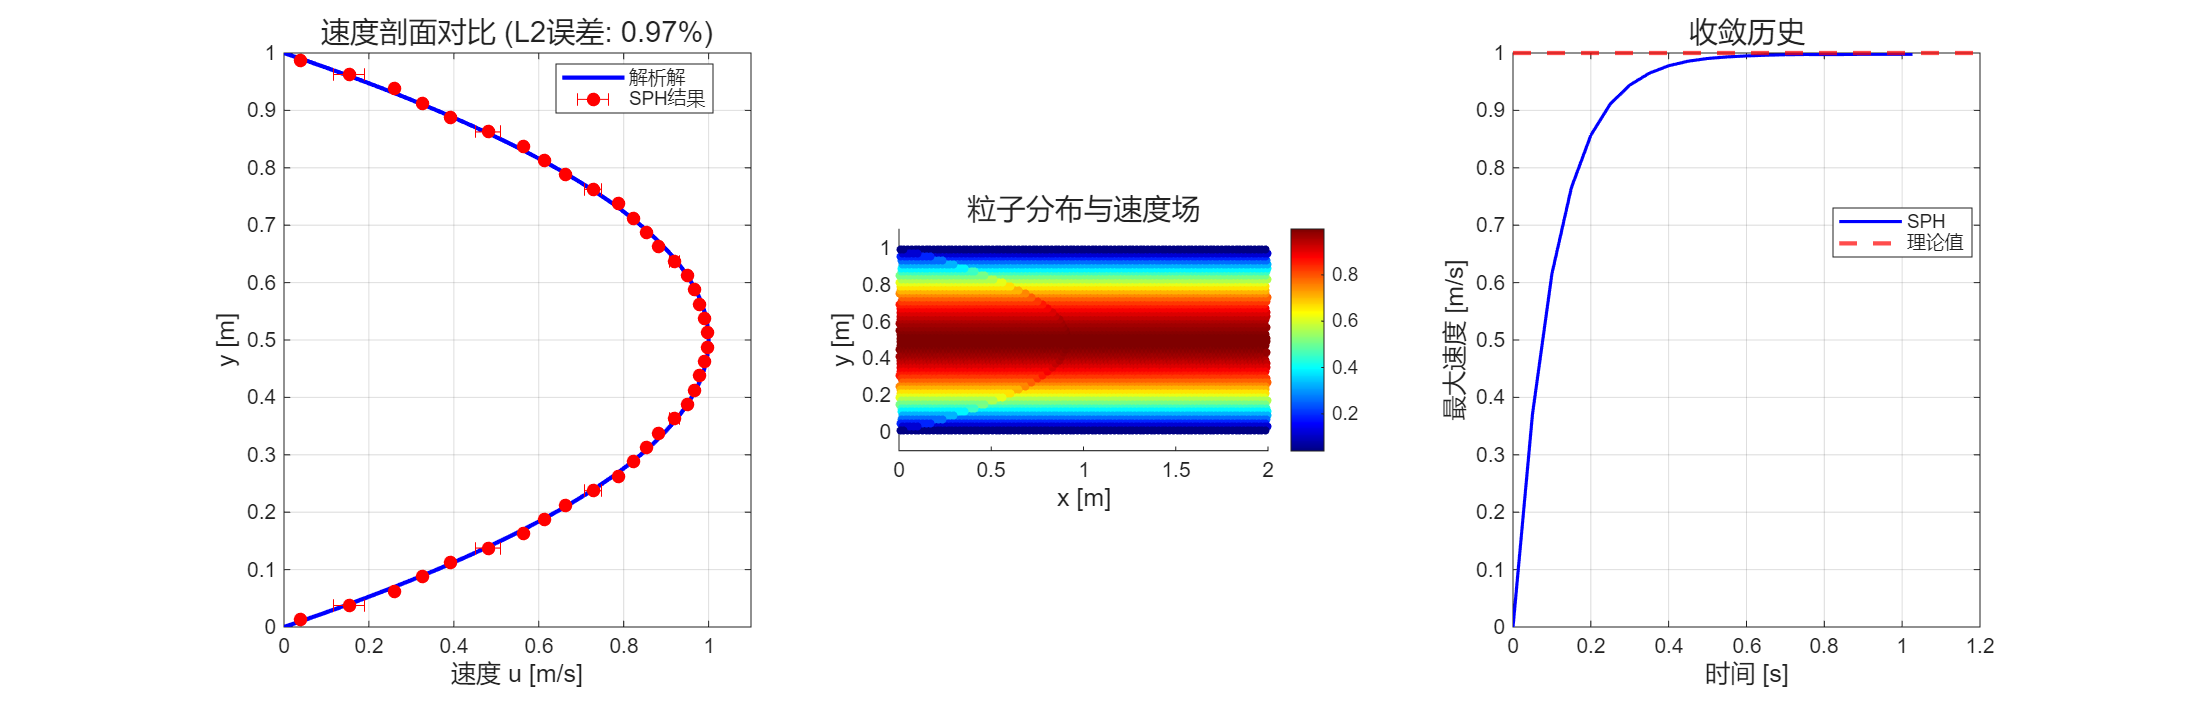
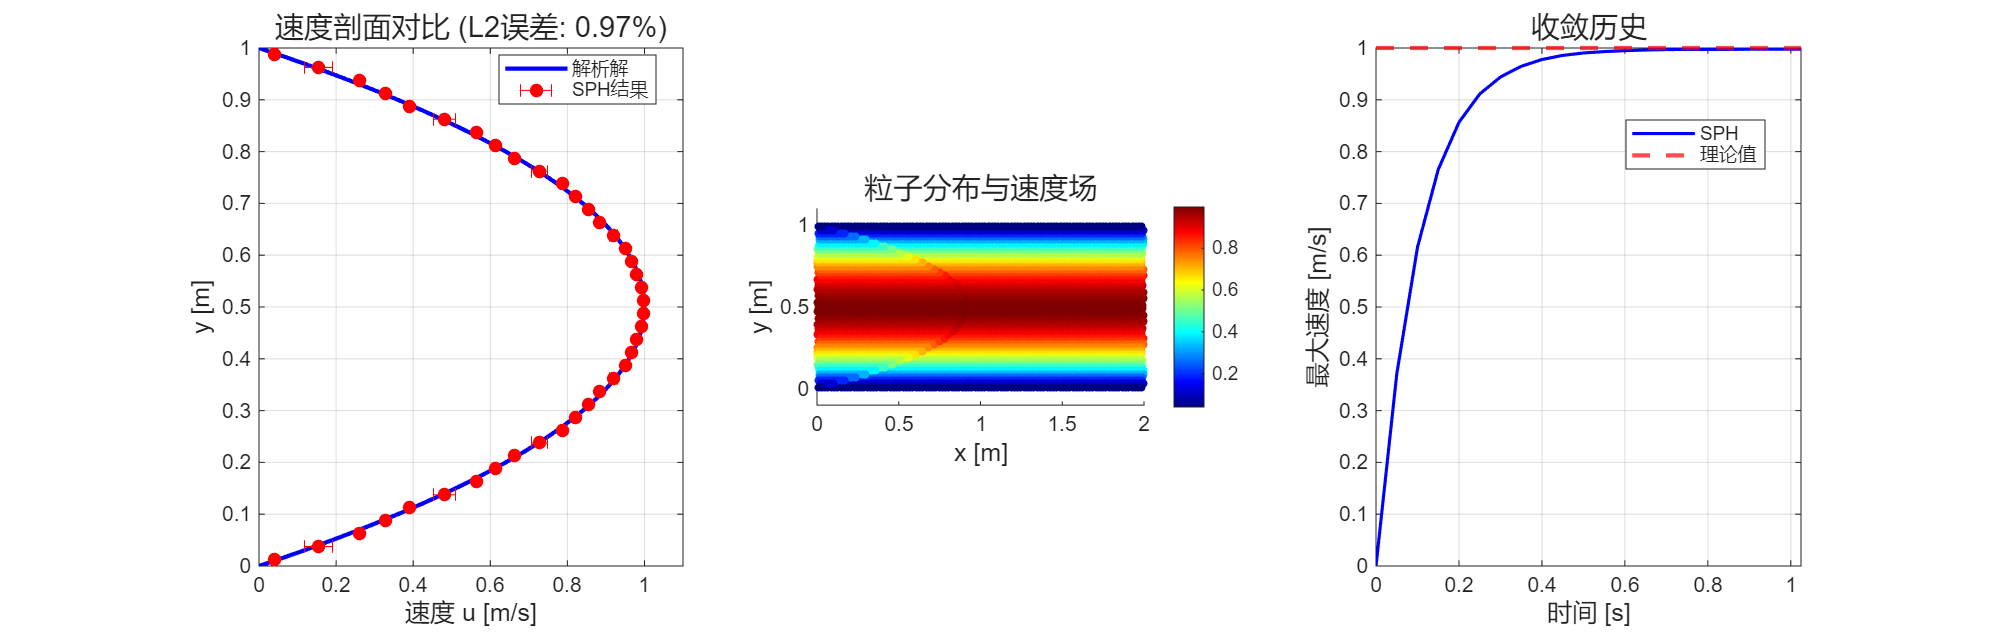
feat: 新增 Neumann 壁面边界条件支持（三种模式可切换）
在 SPH 平板泊肃叶流动模拟中增加 Neumann 壁面边界条件，
通过 wall_bc_type 变量（或环境变量 SPH_WALL_BC）切换三种模式：

1. dirichlet — Morris (1997) 镜像速度法（原有默认行为，完全保留）
2. neumann_laminar — 层流 Neumann BC，近壁单点差分估计 du/dy，
   通过 Taylor 展开设定虚粒子速度 u_ghost = -d·(du/dy)
3. neumann_wallmodel — 壁面模型 Neumann BC，对数律不动点迭代求
   摩擦速度 u_τ，适用于高 Re 湍流场景（低 Re 自动退化为粘性子层）

主要变更：
- 新增 update_wall_velocity_unified() 统一壁面速度更新函数
- 新增 wall_model_dudy() 对数律壁面模型函数
- 预计算虚粒子到壁面距离 d_bottom/d_top 及近壁流体层信息
- 替换两处 update_wall_velocity_fast 调用为统一接口
- 更新 .gitignore 忽略 Claude 本地配置和临时报告文件

验证结果（三种模式 vs 解析解 L2 误差均 < 1.3%）：
- dirichlet:         ~1.21%
- neumann_laminar:   ~1.22%
- neumann_wallmodel: ~1.22%

diff --git a/SPH_Poiseuille.m b/SPH_Poiseuille.m
@@ -99,6 +99,26 @@ fprintf('u_max_theory=%.4f, cs=%.2f, dt=%.6f, t_end=%.3f\n', ...
 fprintf('稳态提前停止=%s (du<%.1e, profile<%.1e, 连续%d次, t>=%.2fs)\n', ...
     mat2str(enable_early_stop), early_du_tol, early_profile_tol, early_stable_hold, early_min_time);
 
+% 壁面边界条件类型: 'dirichlet' | 'neumann_laminar' | 'neumann_wallmodel'
+wall_bc_type = 'neumann_laminar';
+env_wall_bc = strtrim(getenv('SPH_WALL_BC'));
+if ~isempty(env_wall_bc)
+    valid_bc_types = {'dirichlet', 'neumann_laminar', 'neumann_wallmodel'};
+    if ismember(env_wall_bc, valid_bc_types)
+        wall_bc_type = env_wall_bc;
+    else
+        warning('无效的 SPH_WALL_BC="%s"，使用默认 dirichlet', env_wall_bc);
+    end
+end
+
+% 壁面模型参数（仅 neumann_wallmodel 使用）
+wm_kappa = 0.41;       % von Kármán 常数
+wm_E = 9.8;            % 对数律常数
+wm_max_iter = 20;      % 最大迭代次数
+wm_tol = 1e-6;         % 收敛容差
+
+fprintf('壁面边界条件: %s\n', wall_bc_type);
+
 %% 粒子初始化
 fprintf('\n初始化粒子...\n');
 
@@ -179,6 +199,12 @@ y_mirror_top = max(0, min(H, 2*H - y(idx_top)));
 fprintf('壁面映射表预计算完成: %d 个流体层, %d 个壁面粒子\n', ...
     n_layers_fluid, n_boundary);
 
+% Neumann BC 预计算：虚粒子到壁面距离 & 近壁流体层信息
+d_bottom = abs(y(idx_bottom));          % 下壁面虚粒子到 y=0 的距离
+d_top    = abs(y(idx_top) - H);         % 上壁面虚粒子到 y=H 的距离
+y_layer1_bottom = y_layers(1);          % 近壁第1层 y 坐标（下壁面）
+y_layer1_top    = H - y_layers(end);    % 近壁第1层到上壁面的距离
+
 %% 核函数参数
 alpha_kernel = 10 / (7 * pi * h^2);  % 2D Cubic Spline 归一化系数
 r_cut = 2 * h;
@@ -227,11 +253,13 @@ vy_xsph = zeros(n_total, 1);
 % 初始力计算（Velocity Verlet 需要初始加速度）
 fprintf('计算初始加速度...\n');
 
-% 镜像速度边界条件（初始速度为零，此处主要为完整性）
-vx = update_wall_velocity_fast(vx, n_fluid, n_bottom, n_top, ...
+% 壁面速度边界条件（初始速度为零，此处主要为完整性）
+vx = update_wall_velocity_unified(vx, n_fluid, n_bottom, n_top, ...
     fluid_layer_id, layer_particle_count, n_layers_fluid, ...
     wall_bottom_k1, wall_bottom_k2, wall_bottom_w1, wall_bottom_w2, ...
-    wall_top_k1, wall_top_k2, wall_top_w1, wall_top_w2);
+    wall_top_k1, wall_top_k2, wall_top_w1, wall_top_w2, ...
+    wall_bc_type, d_bottom, d_top, y_layer1_bottom, y_layer1_top, ...
+    H, mu, rho0, wm_kappa, wm_E, wm_max_iter, wm_tol);
 
 if use_mex_step
     [ax, ay, rho, p, vx_xsph, vy_xsph, n_pairs] = ...
@@ -311,11 +339,13 @@ while t_current < t_end
     % --- 周期性边界 ---
     x(1:n_fluid) = mod(x(1:n_fluid), L);
 
-    % --- 壁面镜像速度 ---
-    vx = update_wall_velocity_fast(vx, n_fluid, n_bottom, n_top, ...
+    % --- 壁面速度边界条件 ---
+    vx = update_wall_velocity_unified(vx, n_fluid, n_bottom, n_top, ...
         fluid_layer_id, layer_particle_count, n_layers_fluid, ...
         wall_bottom_k1, wall_bottom_k2, wall_bottom_w1, wall_bottom_w2, ...
-        wall_top_k1, wall_top_k2, wall_top_w1, wall_top_w2);
+        wall_top_k1, wall_top_k2, wall_top_w1, wall_top_w2, ...
+        wall_bc_type, d_bottom, d_top, y_layer1_bottom, y_layer1_top, ...
+        H, mu, rho0, wm_kappa, wm_E, wm_max_iter, wm_tol);
 
     % --- SPH 单步计算（融合 MEX 或 MATLAB 回退） ---
     do_shepard = (mod(step, 30) == 0);
@@ -780,4 +810,117 @@ function profile_mean = compute_binned_profile_mean(y_values, u_values, y_edges)
     u_sum = accumarray(bin_idx, u_values, [n_bins, 1], @sum, 0);
     u_count = accumarray(bin_idx, 1, [n_bins, 1], @sum, 0);
     profile_mean = u_sum ./ max(u_count, 1);
+end
+
+function vx = update_wall_velocity_unified(vx, n_fluid, n_bottom, n_top, ...
+    fluid_layer_id, layer_particle_count, n_layers_fluid, ...
+    wall_bottom_k1, wall_bottom_k2, wall_bottom_w1, wall_bottom_w2, ...
+    wall_top_k1, wall_top_k2, wall_top_w1, wall_top_w2, ...
+    wall_bc_type, d_bottom, d_top, y_layer1_bottom, y_layer1_top, ...
+    H, mu, rho0, wm_kappa, wm_E, wm_max_iter, wm_tol)
+% 统一壁面速度更新函数
+% 支持三种模式: dirichlet / neumann_laminar / neumann_wallmodel
+
+    % 计算各层平均速度（所有模式共用）
+    vx_fluid = vx(1:n_fluid);
+    vx_layer_sum = accumarray(fluid_layer_id, vx_fluid, [n_layers_fluid, 1]);
+    vx_layer = vx_layer_sum ./ layer_particle_count;
+
+    % 壁面粒子索引
+    idx_bottom = (n_fluid+1):(n_fluid+n_bottom);
+    idx_top = (n_fluid+n_bottom+1):(n_fluid+n_bottom+n_top);
+
+    % 镜像点速度插值（所有模式共用）
+    vx_mirror_bottom = wall_bottom_w1 .* vx_layer(wall_bottom_k1) + ...
+                       wall_bottom_w2 .* vx_layer(wall_bottom_k2);
+    vx_mirror_top = wall_top_w1 .* vx_layer(wall_top_k1) + ...
+                    wall_top_w2 .* vx_layer(wall_top_k2);
+
+    switch wall_bc_type
+        case 'dirichlet'
+            % Morris (1997) 镜像速度法: u_ghost = -u_mirror
+            vx(idx_bottom) = -vx_mirror_bottom;
+            vx(idx_top)    = -vx_mirror_top;
+
+        case 'neumann_laminar'
+            % 层流 Neumann BC: 近壁单点差分估计 du/dy
+            u_layer1_bottom = vx_layer(1);      % 近壁第1层速度（下壁面）
+            u_layer1_top    = vx_layer(end);     % 近壁第1层速度（上壁面）
+
+            % du/dy 带符号: 下壁面 > 0, 上壁面 < 0
+            dudy_bottom = u_layer1_bottom / y_layer1_bottom;
+            dudy_top    = -u_layer1_top / y_layer1_top;
+
+            % u_ghost = u_wall - d * (du/dy), u_wall = 0
+            % 下壁面虚粒子在 y=-d: u(-d) = 0 + (-d)*dudy = -d*dudy
+            % 上壁面虚粒子在 y=H+d: u(H+d) = 0 + d*dudy = d*dudy (dudy<0, 所以u_ghost<0)
+            vx(idx_bottom) = -d_bottom .* dudy_bottom;
+            vx(idx_top)    =  d_top    .* dudy_top;
+
+        case 'neumann_wallmodel'
+            % 壁面模型 Neumann BC: 对数律不动点迭代
+            u_layer1_bottom = vx_layer(1);
+            u_layer1_top    = vx_layer(end);
+            nu = mu / rho0;
+
+            % 下壁面: du/dy > 0
+            abs_dudy_bottom = wall_model_dudy(abs(u_layer1_bottom), ...
+                y_layer1_bottom, nu, mu, rho0, wm_kappa, wm_E, wm_max_iter, wm_tol);
+            dudy_bottom = +abs_dudy_bottom;
+
+            % 上壁面: du/dy < 0
+            abs_dudy_top = wall_model_dudy(abs(u_layer1_top), ...
+                y_layer1_top, nu, mu, rho0, wm_kappa, wm_E, wm_max_iter, wm_tol);
+            dudy_top = -abs_dudy_top;
+
+            % u_ghost = u_wall + (±d) * (du/dy), u_wall = 0
+            vx(idx_bottom) = -d_bottom .* dudy_bottom;
+            vx(idx_top)    =  d_top    .* dudy_top;
+
+        otherwise
+            error('未知的壁面边界条件类型: %s', wall_bc_type);
+    end
+end
+
+function abs_dudy = wall_model_dudy(u_ref, y_ref, nu, mu, rho0, ...
+    kappa, E, max_iter, tol)
+% 对数律壁面模型: 不动点迭代求 |du/dy|_wall
+% 输入: u_ref - 参考点速度绝对值
+%        y_ref - 参考点到壁面距离
+%        nu    - 运动粘度
+%        mu    - 动力粘度
+%        rho0  - 参考密度
+%        kappa - von Kármán 常数 (0.41)
+%        E     - 对数律常数 (9.8)
+% 输出: abs_dudy - |du/dy|_wall 的绝对值
+
+    if u_ref < 1e-15 || y_ref < 1e-15
+        abs_dudy = 0;
+        return;
+    end
+
+    % 初始猜测: 粘性子层公式 u+ = y+ → u_tau = sqrt(nu * u_ref / y_ref)
+    u_tau = sqrt(nu * u_ref / y_ref);
+
+    for iter = 1:max_iter
+        u_tau_old = u_tau;
+        y_plus = u_tau * y_ref / nu;
+
+        if y_plus <= 11.1
+            % 粘性子层: u+ = y+ → u_tau = sqrt(nu * u_ref / y_ref)
+            u_tau = sqrt(nu * u_ref / y_ref);
+        else
+            % 对数层: u+ = (1/κ) * ln(E * y+)
+            u_tau = u_ref * kappa / log(E * y_plus);
+        end
+
+        % 收敛检查
+        if abs(u_tau - u_tau_old) / max(u_tau, 1e-15) < tol
+            break;
+        end
+    end
+
+    % τ_w = ρ * u_τ², |du/dy|_wall = τ_w / μ
+    tau_w = rho0 * u_tau^2;
+    abs_dudy = tau_w / mu;
 end
